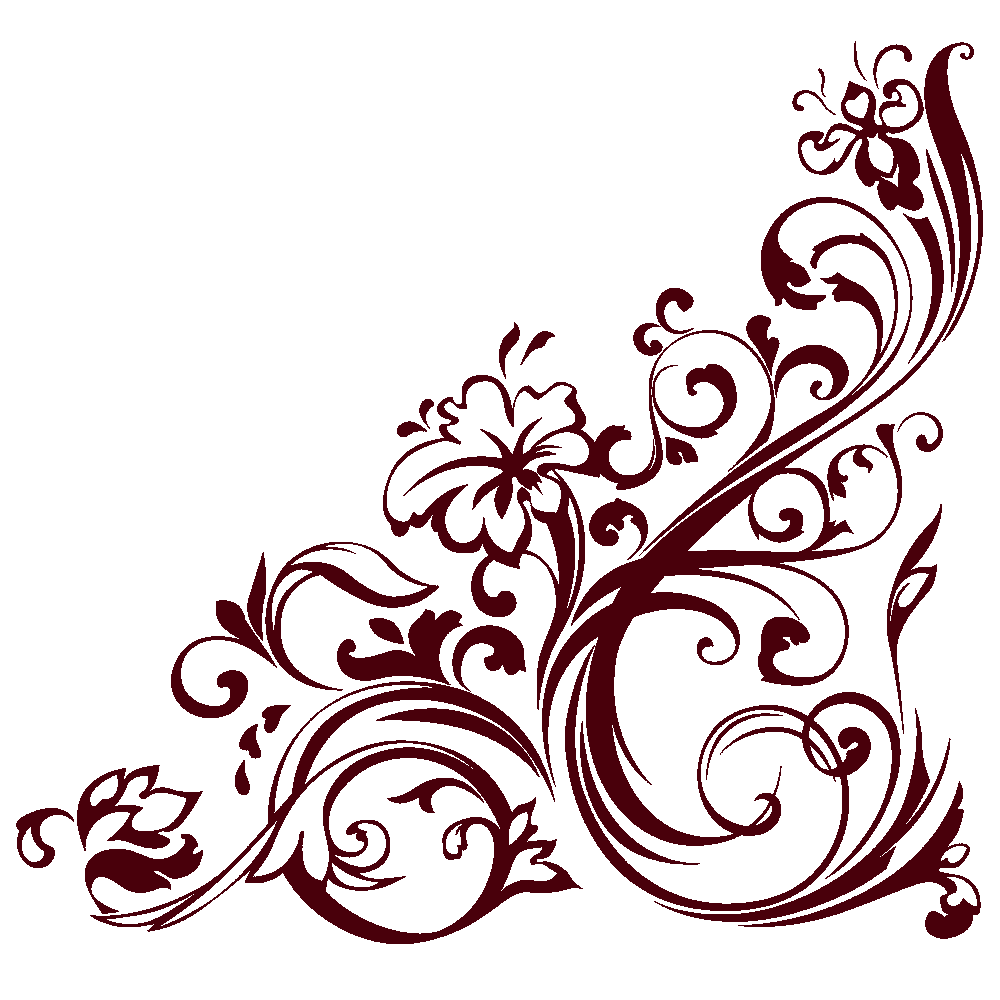
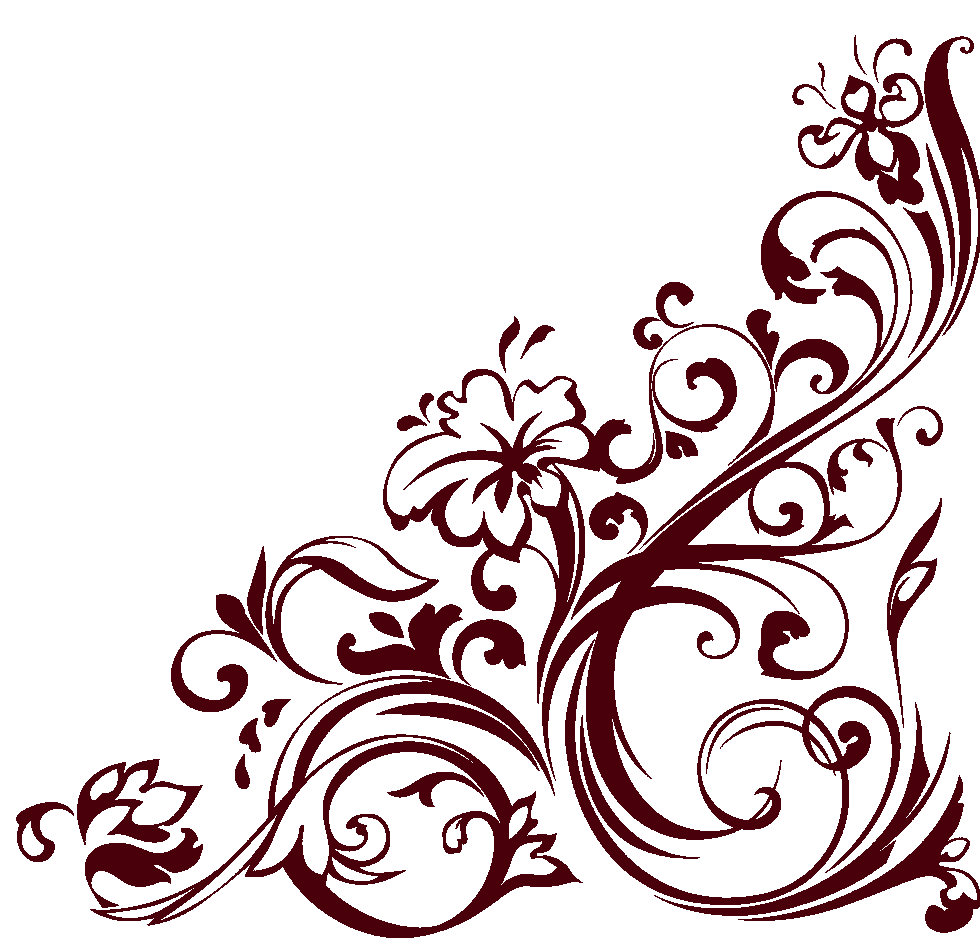
second desil
second desil added in and attempt to push it to the back

Changed region(s): [[0.0, 0.0308, 1.0, 1.0]]

diff --git a/_Soft166/WebDev/Html/style.css b/_Soft166/WebDev/Html/style.css
@@ -28,12 +28,21 @@ body{
     right: 5px;
     opacity: 0.4;
 }
+.desil2{
+    transform: rotate(180deg);
+    background-image: url("corner desil.png");
+    position: absolute;
+    top: 10px;
+    left: 5px;
+    opacity: 0.4;
+}
 
 /* Style the navigation bar */
 .navigationbar {
     width: 100%;
     background-color: #660066;
     overflow: auto;
+    z-index: 2;
 }
 /* Navbar buttons */
 .navigationbar a {
@@ -43,6 +52,7 @@ body{
     color: white;
     text-decoration: none;
     font-size: 16px;
+    z-index: 2;
 }
 /* hover colour */
 .navigationbar a:hover {
@@ -52,6 +62,7 @@ body{
 .oneDropdown {
     float: left;
     overflow: hidden;
+    z-index: 2;
 }
 .oneDropdown .oneDropbutton {
     font-size: 16px;
@@ -60,8 +71,8 @@ body{
     color: white;
     padding: 14px 16px;
     background-color: inherit;
-    font-family: inherit; /* Important for vertical align on mobile phones */
-    margin: 0; /* Important for vertical align on mobile phones */
+    font-family: inherit;
+    z-index: 2;
 }
 /* Add a dark purple background on hover */
 .navigationbar a:hover, .oneDropdown:hover .oneDropbutton {
@@ -74,7 +85,7 @@ body{
     background-color: #660066;
     min-width: 128px;
     box-shadow: 0px 8px 16px 0px rgb(59, 0, 59);
-    z-index: 1;
+    z-index: 2;
 }
 /* content within drop down */
 .oneDropdown-content a {
@@ -84,6 +95,7 @@ body{
     text-decoration: none;
     display: block;
     text-align: left;
+    z-index: 2;
 }
 /* adds hover colour to drop down */
 .oneDropdown-content a:hover {
@@ -92,11 +104,13 @@ body{
 /* Show the dropdown menu */
 .oneDropdown:hover .oneDropdown-content {
     display: block;
+    z-index: 2;
 }
 /* The dropdown container */
 .twoDropdown {
     float: left;
     overflow: hidden;
+    z-index: 2;
 }
 .twoDropdown .twoDropbutton {
     font-size: 16px;
@@ -105,8 +119,8 @@ body{
     color: white;
     padding: 14px 16px;
     background-color: inherit;
-    font-family: inherit; /* Important for vertical align on mobile phones */
-    margin: 0; /* Important for vertical align on mobile phones */
+    font-family: inherit;
+    z-index: 2;
 }
 /* Add a dark purple background on hover */
 .navigationbar a:hover, .twoDropdown:hover .twoDropbutton {
@@ -119,7 +133,7 @@ body{
     background-color: #660066;
     min-width: 128px;
     box-shadow: 0px 8px 16px 0px rgb(59, 0, 59);
-    z-index: 1;
+    z-index: 2;
 }
 /* content within drop down */
 .twoDropdown-content a {
@@ -129,14 +143,18 @@ body{
     text-decoration: none;
     display: block;
     text-align: left;
+    font-family: inherit;
+    z-index: 2;
 }
 /* adds hover colour to drop down */
 .twoDropdown-content a:hover {
     background-color: #3b003b;
+    z-index: 2;
 }
 /* Show the dropdown menu */
 .twoDropdown:hover .twoDropdown-content {
     display: block;
+    z-index: 2;
 }
 
 table {

diff --git a/_Soft166/WebDev/Html/website 0.1.html b/_Soft166/WebDev/Html/website 0.1.html
@@ -11,6 +11,9 @@
 <div class="desil">
     <img src="corner desil.png" alt="desil" style="width:450px;height:400px;">
 </div>
+<div class="desil2">
+    <img src="corner desil.png" alt="desil" style="width:450px;height:400px;z-index: 0;">
+</div>
 
 <!-- format for the three buttons at the bottom of my page. uses a class from css-->
 <div class="navigationbar">
